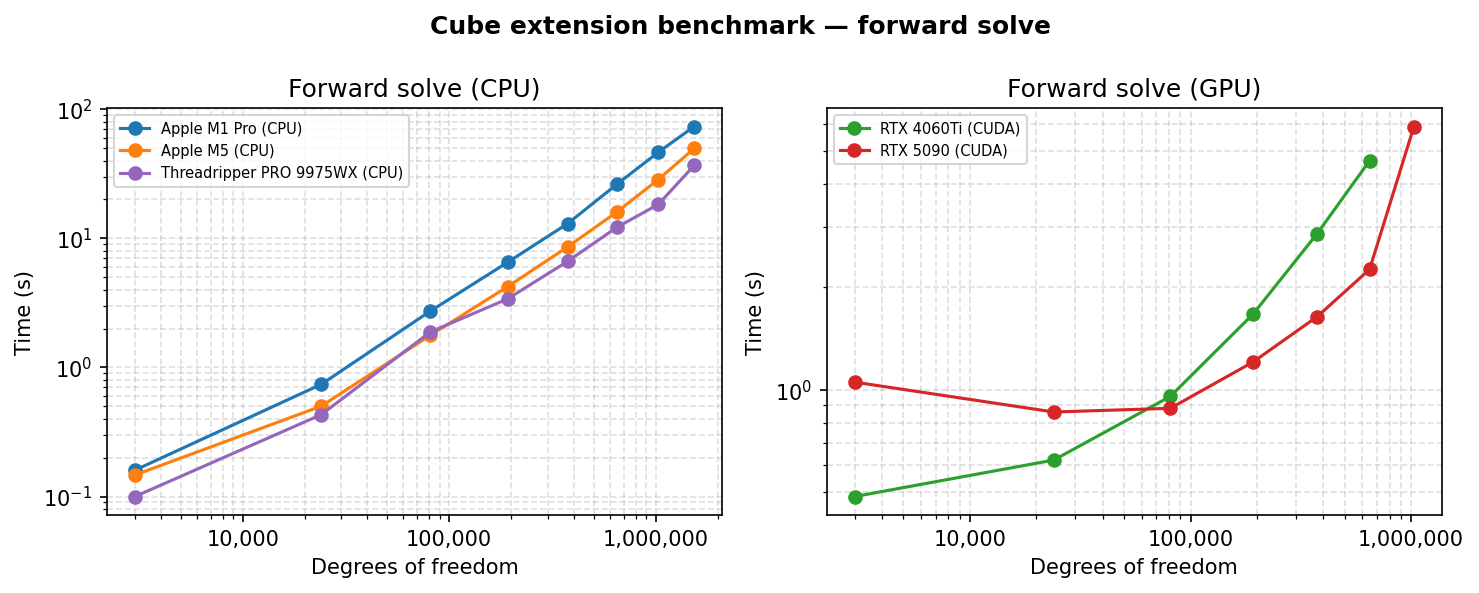
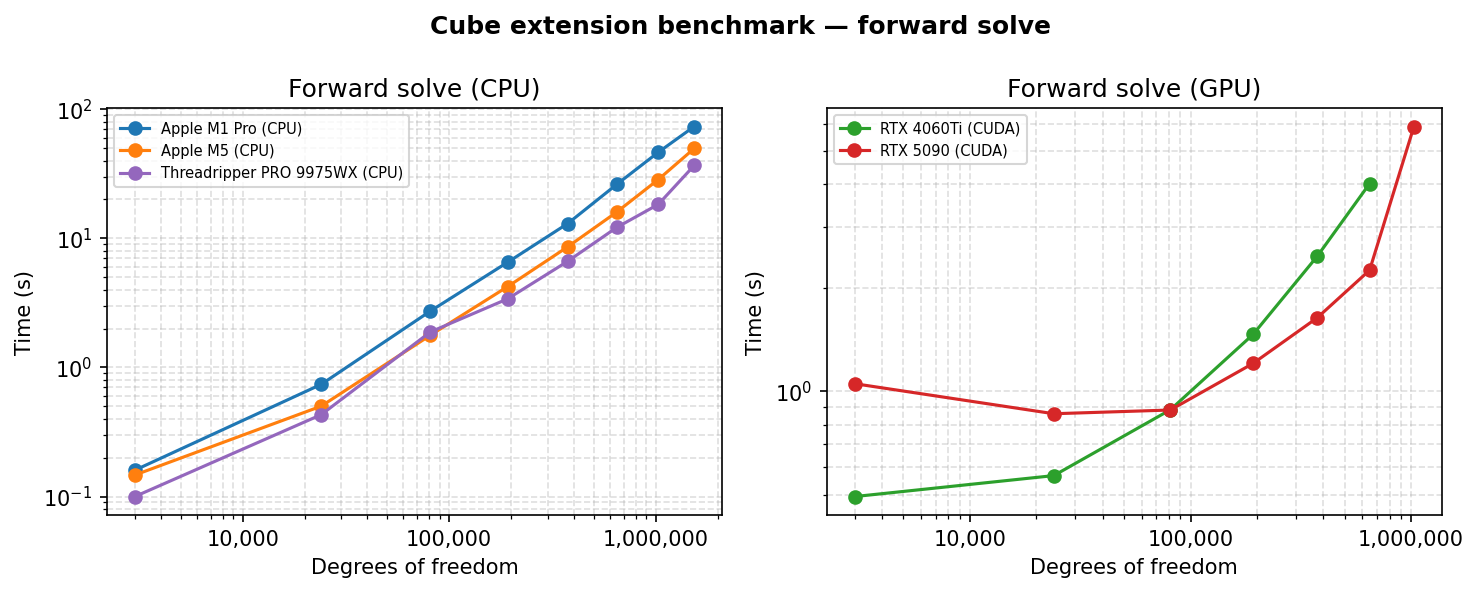
Improve torch to cupy transfer.

Changed region(s): [[0.5287, 0.3642, 0.9642, 0.8499], [0.902, 0.2428, 0.9331, 0.3642]]

diff --git a/src/torchfem/sparse.py b/src/torchfem/sparse.py
@@ -31,6 +31,7 @@ available_backends = ["scipy"]
 try:
     import cupy
     from cupyx.scipy.sparse import coo_matrix as cupy_coo_matrix
+    from cupyx.scipy.sparse import csr_matrix as cupy_csr_matrix
     from cupyx.scipy.sparse import diags as cupy_diags
     from cupyx.scipy.sparse.linalg import cg as cupy_cg
     from cupyx.scipy.sparse.linalg import eigsh as cupy_eigsh
@@ -273,13 +274,17 @@ def sparse_solve(
 def _solve_gpu(A, b, B, method, stol, M, shape, x0):
     if "cupy" not in available_backends:
         raise RuntimeError(ERR_CUPY_MISSING)
-    A_cp = cupy_coo_matrix(
-        (
-            cupy.asarray(A._values()),
-            (cupy.asarray(A._indices()[0]), cupy.asarray(A._indices()[1])),
-        ),
-        shape=shape,
-    ).tocsr()
+
+    # Copy tensors to CuPy
+    A = A.coalesce()
+    idx = A._indices()
+    data = cupy.asarray(A._values())
+    indices = cupy.asarray(idx[1]).astype(cupy.int32)
+    counts = cupy.bincount(cupy.asarray(idx[0]), minlength=shape[0])
+    indptr = cupy.zeros(shape[0] + 1, dtype=cupy.int32)
+    indptr[1:] = cupy.cumsum(counts)
+    A_cp = cupy_csr_matrix((data, indices, indptr), shape=shape)
+    A_cp.has_sorted_indices = True
     b_cp = cupy.asarray(b.data)
 
     if x0 is not None: